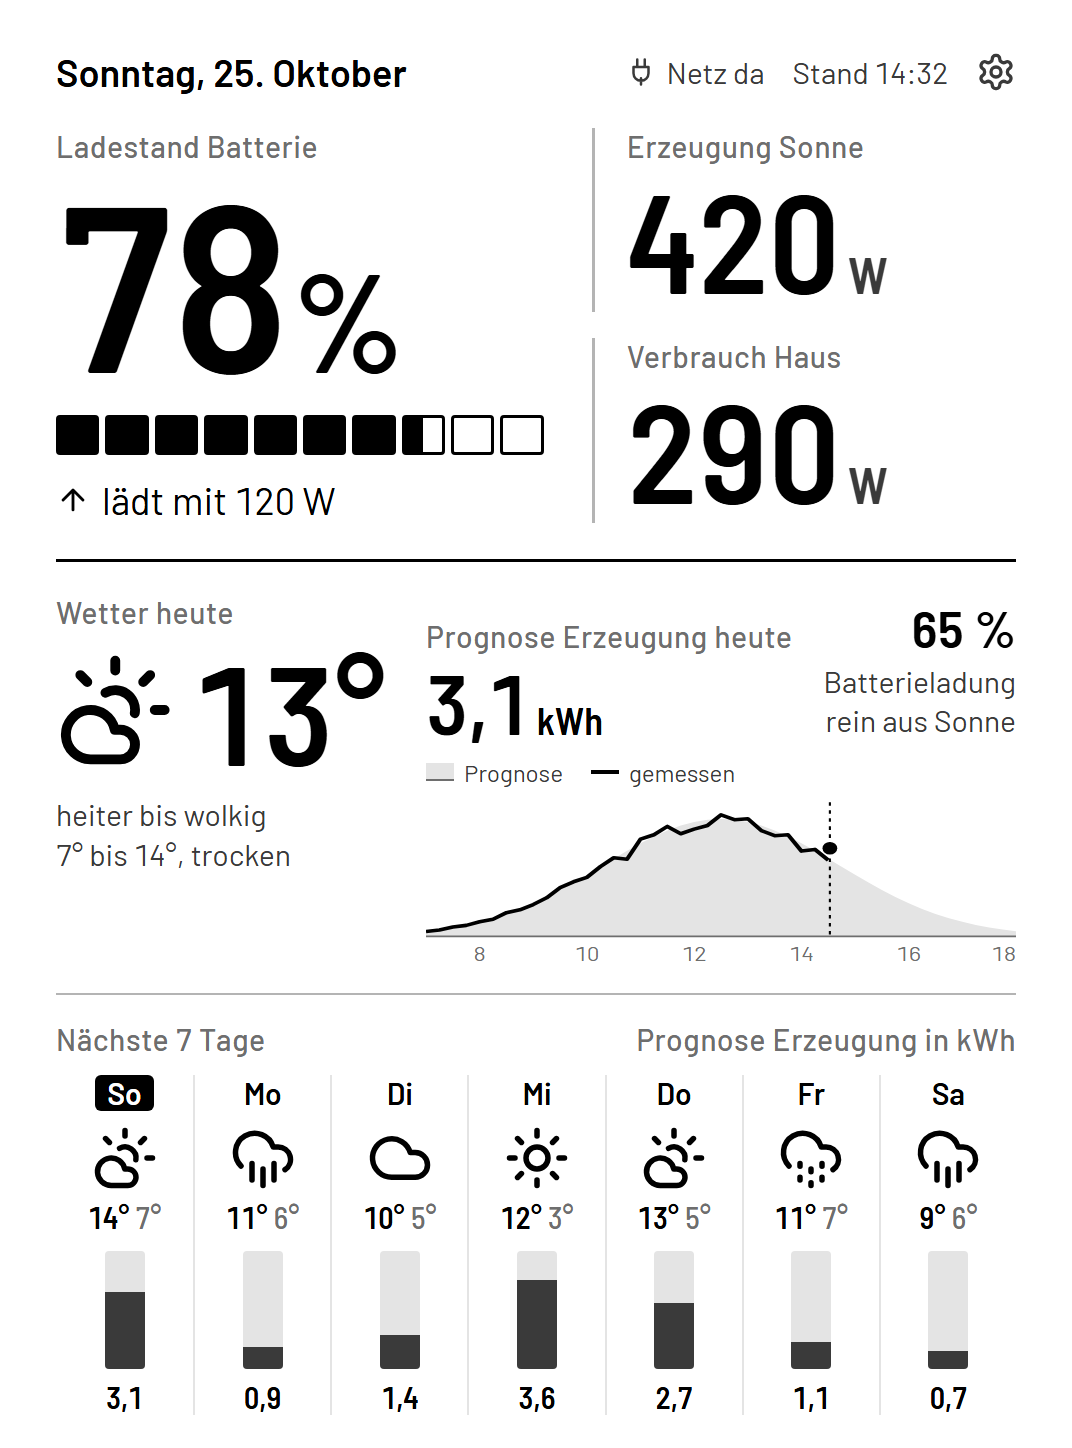
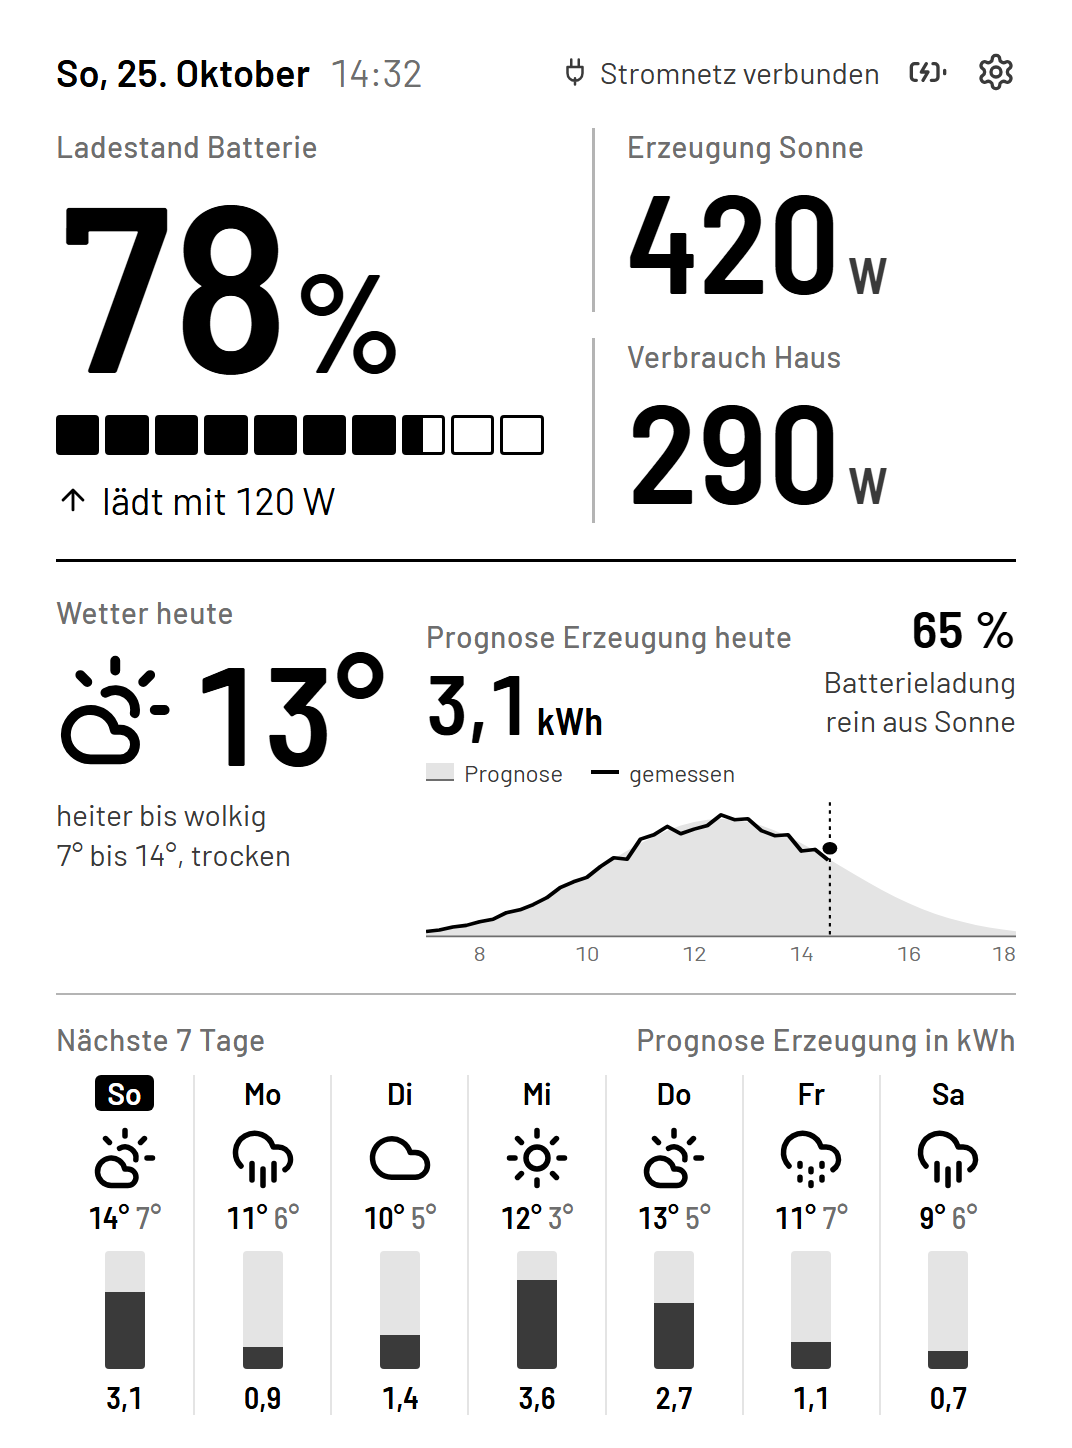
Startseite: Akku vollladen in zwei Schritten
Symbol oben rechts öffnet einen Dialog »Akku vollladen« mit
Ladestand, geschätzter Dauer und den Knöpfen Abbrechen und Jetzt
vollladen. Bei Stromausfall ist das Symbol ausgeblendet, laden aus
dem Netz geht dann nicht. »Netz da« heißt jetzt »Stromnetz
verbunden«, der Ausfall »Stromausfall seit«. Die Uhrzeit steht
neben dem Datum.

Changed region(s): [[0.5233, 0.0311, 0.8927, 0.0622], [0.0924, 0.0311, 0.4002, 0.0622]]

diff --git a/entwurf/startseite.html b/entwurf/startseite.html
@@ -45,6 +45,8 @@
     font-size: var(--s-2); color: var(--tinte-2); height: 56px;
   }
   .kopf .datum { font-weight: 600; color: var(--tinte); font-size: var(--s-3); }
+  .kopf .datum span { font-weight: 400; color: var(--tinte-3); margin-left: 12px; }
+  .netzausfall .kopf .datum span { color: var(--papier); }
   .kopf .rechts { display: flex; align-items: center; gap: 28px; }
   .status { display: flex; align-items: center; gap: 10px; }
   .status svg { width: 30px; height: 30px; }
@@ -57,6 +59,7 @@
   }
   .netzausfall .kopf .datum, .netzausfall .kopf .zahnrad { color: var(--papier); }
   .netzausfall .kopf .status { font-weight: 600; }
+  .netzausfall #laden-knopf { display: none; }
 
   /* Hauptwerte */
   .haupt {
@@ -121,13 +124,32 @@
   .getrennt .gross { font-size: var(--s-5); font-weight: 600; line-height: 1.05; }
   .getrennt .klein { font-size: var(--s-3); color: var(--tinte-2); }
 
+  /* Dialog Akku vollladen: zweiter Schritt nach dem Symbol oben rechts */
+  .schleier { display: none; position: absolute; inset: 0; background: rgba(255,255,255,.72); }
+  .dialog {
+    display: none; position: absolute; left: var(--rand); right: var(--rand); top: 300px;
+    background: var(--papier); border: 4px solid var(--tinte); border-radius: 12px;
+    padding: 48px 48px 44px;
+  }
+  .laden .schleier, .laden .dialog { display: block; }
+  .laden #laden-knopf { background: var(--tinte); color: var(--papier); border-radius: 8px; padding: 4px; }
+  .dialog h2 { font-size: var(--s-4); font-weight: 600; display: flex; align-items: center; gap: 18px; }
+  .dialog h2 svg { width: 56px; height: 56px; }
+  .dialog p { font-size: var(--s-3); line-height: 1.35; margin-top: 24px; color: var(--tinte-2); }
+  .dialog .fakten { display: grid; grid-template-columns: 1fr 1fr; margin-top: 32px; border-top: 2px solid var(--linie); border-bottom: 2px solid var(--linie); }
+  .dialog .fakten div { padding: 22px 0; }
+  .dialog .fakten b { display: block; font-family: var(--zahl); font-size: var(--s-4); font-weight: 600; margin-top: 4px; }
+  .dialog .knoepfe { display: grid; grid-template-columns: 1fr 1.4fr; gap: 24px; margin-top: 40px; }
+  .dialog .knopf { height: 112px; border-radius: var(--radius); border: 4px solid var(--tinte); display: flex; align-items: center; justify-content: center; font-size: var(--s-3); font-weight: 600; }
+  .dialog .knopf.primaer { background: var(--tinte); color: var(--papier); }
+
   svg.i { fill: none; stroke: currentColor; stroke-width: 2; stroke-linecap: round; stroke-linejoin: round; }
   .zustaende { position: fixed; top: 12px; left: 12px; font: 14px sans-serif; }
   .zustaende a { color: #000; background: #fff; padding: 4px 8px; margin-right: 4px; text-decoration: none; }
 </style>
 </head>
 <body>
-<nav class="zustaende"><a href="#normal">normal</a><a href="#netzausfall">netzausfall</a><a href="#offline">offline</a></nav>
+<nav class="zustaende"><a href="#normal">normal</a><a href="#netzausfall">netzausfall</a><a href="#offline">offline</a><a href="#laden">laden</a></nav>
 
 <svg width="0" height="0" style="position:absolute">
   <defs>
@@ -139,6 +161,7 @@
     <symbol id="stecker" viewBox="0 0 24 24"><path d="M12 22v-5M9 8V2M15 8V2M18 8v5a6 6 0 0 1-12 0V8Z"/></symbol>
     <symbol id="stecker-aus" viewBox="0 0 24 24"><path d="M12 22v-5M9 8V2M15 8V2M18 8v5a6 6 0 0 1-12 0V8ZM2 2l20 20"/></symbol>
     <symbol id="wlan-aus" viewBox="0 0 24 24"><path d="M12 20h.01M8.5 16.43a5 5 0 0 1 7 0M2 8.82a15 15 0 0 1 4.17-2.65M10.66 5c4.01-.36 8.14.9 11.34 3.76M16.85 11.25a10 10 0 0 1 2.22 1.68M5 13a10 10 0 0 1 5.24-2.76M2 2l20 20"/></symbol>
+    <symbol id="akku-blitz" viewBox="0 0 24 24"><path d="M15 7h1a2 2 0 0 1 2 2v6a2 2 0 0 1-2 2h-2M6 7H4a2 2 0 0 0-2 2v6a2 2 0 0 0 2 2h1M11 7l-3 5h4l-3 5M22 11v2"/></symbol>
     <symbol id="pfeil-hoch" viewBox="0 0 24 24"><path d="M12 19V5M5 12l7-7 7 7"/></symbol>
     <symbol id="zahnrad" viewBox="0 0 24 24"><path d="M12.22 2h-.44a2 2 0 0 0-2 2v.18a2 2 0 0 1-1 1.73l-.43.25a2 2 0 0 1-2 0l-.15-.08a2 2 0 0 0-2.73.73l-.22.38a2 2 0 0 0 .73 2.73l.15.1a2 2 0 0 1 1 1.72v.51a2 2 0 0 1-1 1.74l-.15.09a2 2 0 0 0-.73 2.73l.22.38a2 2 0 0 0 2.73.73l.15-.08a2 2 0 0 1 2 0l.43.25a2 2 0 0 1 1 1.73V20a2 2 0 0 0 2 2h.44a2 2 0 0 0 2-2v-.18a2 2 0 0 1 1-1.73l.43-.25a2 2 0 0 1 2 0l.15.08a2 2 0 0 0 2.73-.73l.22-.39a2 2 0 0 0-.73-2.73l-.15-.08a2 2 0 0 1-1-1.74v-.5a2 2 0 0 1 1-1.74l.15-.09a2 2 0 0 0 .73-2.73l-.22-.38a2 2 0 0 0-2.73-.73l-.15.08a2 2 0 0 1-2 0l-.43-.25a2 2 0 0 1-1-1.73V4a2 2 0 0 0-2-2z"/><circle cx="12" cy="12" r="3"/></symbol>
   </defs>
@@ -146,10 +169,10 @@
 
 <main class="kindle" id="kindle">
   <header class="kopf">
-    <div class="datum">Sonntag, 25. Oktober</div>
+    <div class="datum">So, 25. Oktober <span id="stand">14:32</span></div>
     <div class="rechts">
-      <div class="status" id="status"><svg class="i"><use href="#stecker"/></svg><span>Netz da</span></div>
-      <div id="stand">Stand 14:32</div>
+      <div class="status" id="status"></div>
+      <svg class="i zahnrad" id="laden-knopf"><use href="#akku-blitz"/></svg>
       <svg class="i zahnrad"><use href="#zahnrad"/></svg>
     </div>
   </header>
@@ -195,6 +218,20 @@
     <div class="woche-kopf"><span class="label">Nächste 7 Tage</span><span class="label">Prognose Erzeugung in kWh</span></div>
     <div class="woche" id="woche"></div>
   </section>
+
+  <div class="schleier"></div>
+  <div class="dialog" role="dialog" aria-labelledby="dialog-titel">
+    <h2 id="dialog-titel"><svg class="i"><use href="#akku-blitz"/></svg>Akku vollladen</h2>
+    <p>Die Batterie wird mit Strom aus dem öffentlichen Netz auf 100 % geladen. Danach schaltet die Anlage von selbst zurück in den Normalbetrieb.</p>
+    <div class="fakten">
+      <div><span class="label">Ladestand jetzt</span><b>78 %</b></div>
+      <div><span class="label">voll in etwa</span><b>40 Minuten</b></div>
+    </div>
+    <div class="knoepfe">
+      <div class="knopf">Abbrechen</div>
+      <div class="knopf primaer">Jetzt vollladen</div>
+    </div>
+  </div>
 </main>
 
 <script>
@@ -249,13 +286,11 @@
     k.className = "kindle " + z;
     const st = document.getElementById("status");
     if (z === "netzausfall") {
-      st.innerHTML = '<svg class="i"><use href="#stecker-aus"/></svg><span>Netzausfall seit 14:05</span>';
+      st.innerHTML = '<svg class="i"><use href="#stecker-aus"/></svg><span>Stromausfall seit 14:05</span>';
     } else if (z === "offline") {
       st.innerHTML = '<svg class="i"><use href="#wlan-aus"/></svg><span>keine Verbindung</span>';
-      document.getElementById("stand").textContent = "Stand 14:32";
     } else {
-      st.innerHTML = '<svg class="i"><use href="#stecker"/></svg><span>Netz da</span>';
-      document.getElementById("stand").textContent = "Stand 14:32";
+      st.innerHTML = '<svg class="i"><use href="#stecker"/></svg><span>Stromnetz verbunden</span>';
       document.querySelector(".richtung").innerHTML = '<svg class="i"><use href="#pfeil-hoch"/></svg>lädt mit 120 W';
     }
   }
